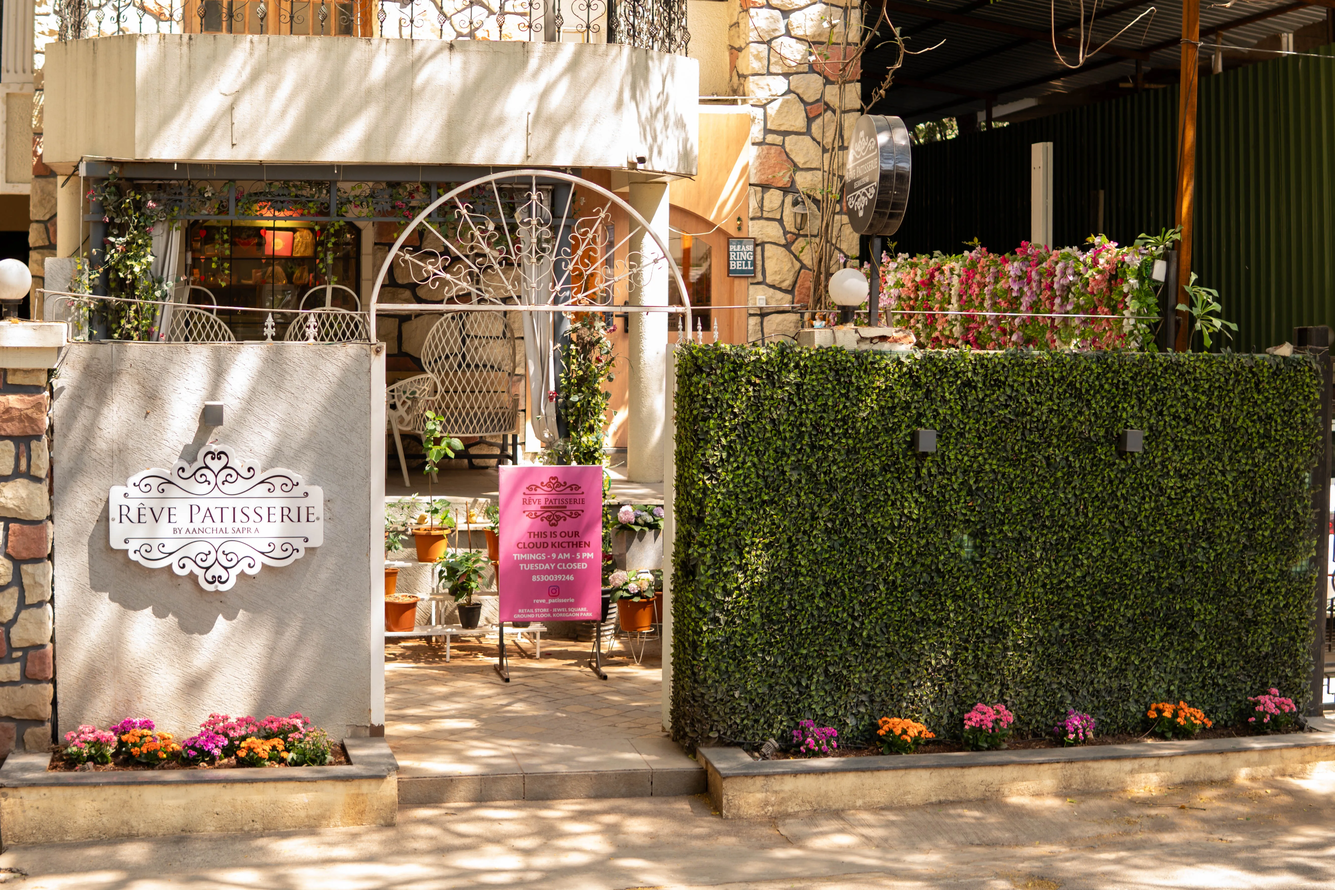
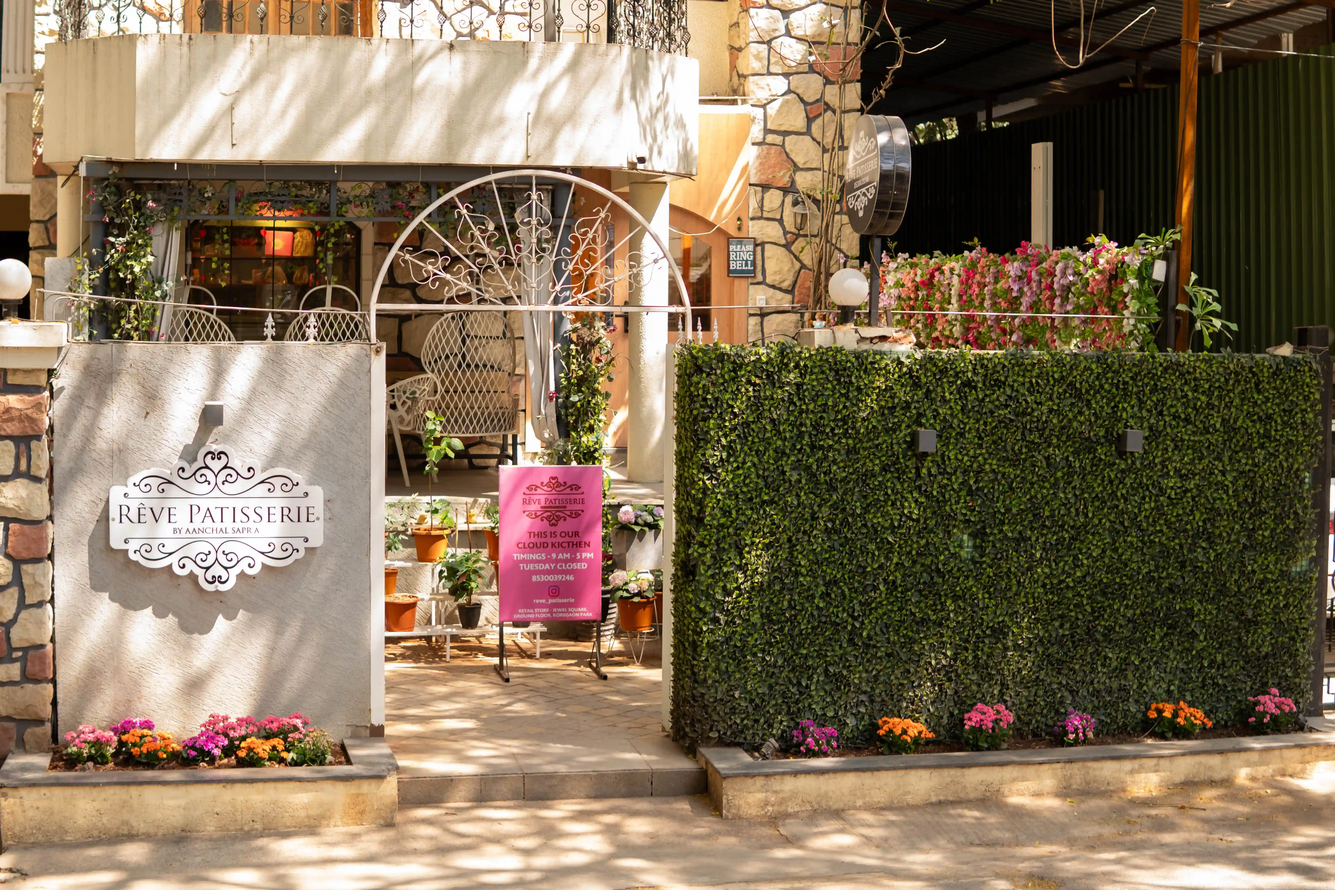
compressed some images

Changed region(s): [[0.6556, 0.4047, 0.6869, 0.4358], [0.1561, 0.8093, 0.1873, 0.8404]]

diff --git a/frontend/src/components/cakes/CakesPage.tsx b/frontend/src/components/cakes/CakesPage.tsx
@@ -1,5 +1,5 @@
 import { useState, useEffect } from "react";
-import cakeBg from "../../assets/CakeBG.png";
+import cakeBg from "../../assets/CakeBG.webp";
 import searchIcon from "../../assets/search.svg";
 import kunafaImg from "../../assets/kunafa.webp";
 import icon from "../../assets/icon1.svg";

diff --git a/frontend/src/components/home/Hero.tsx b/frontend/src/components/home/Hero.tsx
@@ -1,5 +1,5 @@
 import { Link } from "react-router-dom";
-import heroImage from "../../assets/reve.png";
+import heroImage from "../../assets/reve.webp";
 import logo from "../../assets/whitelogo.png";
 
 const Hero = () => {
